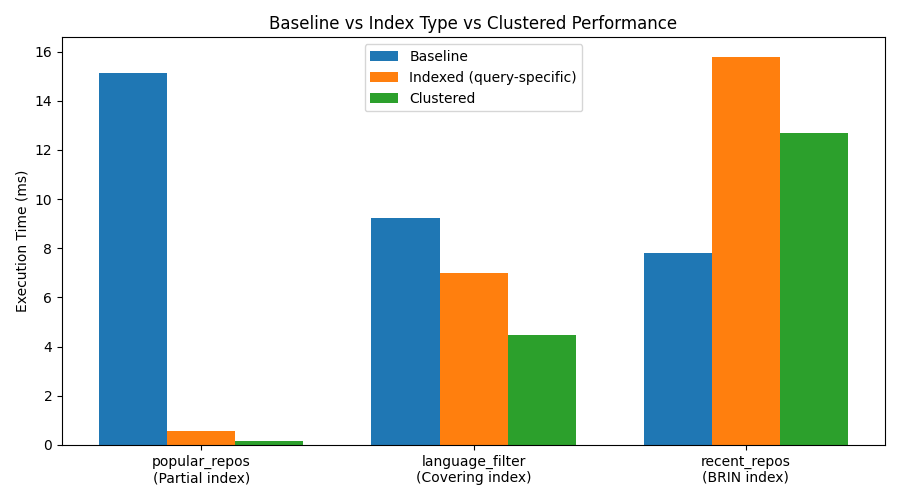
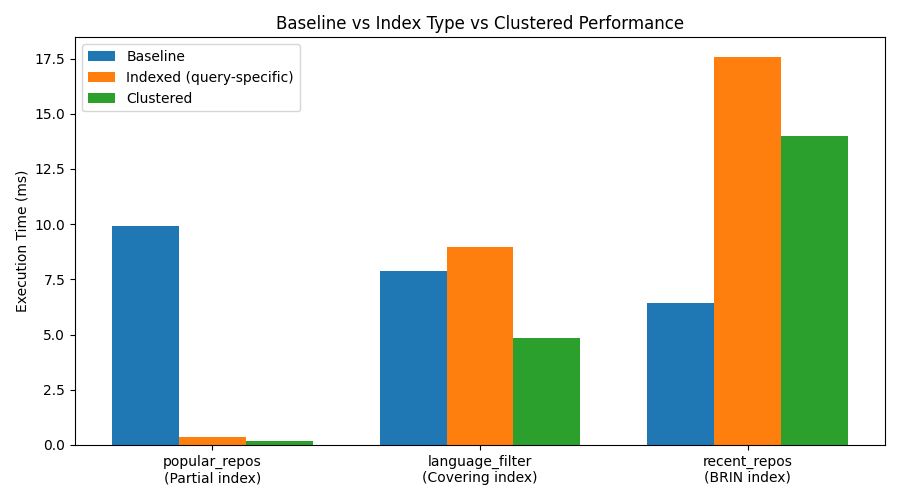
summary

diff --git a/analysis/plot_results.py b/analysis/plot_results.py
@@ -3,7 +3,7 @@ import matplotlib.pyplot as plt
 import numpy as np
 
 baseline = pd.read_csv("analysis/baseline.csv")
-indexed = pd.read_csv("analysis/indexed.csv")
+indexed = pd.read_csv("analysis/indexed_no_cluster.csv")
 clustered = pd.read_csv("analysis/indexed_clustered.csv")
 
 # Map query → index type

diff --git a/analysis/compare.py b/analysis/compare.py
@@ -1,7 +1,7 @@
 import pandas as pd
 
 base = pd.read_csv("analysis/baseline.csv")
-idx = pd.read_csv("analysis/indexed.csv")
+idx = pd.read_csv("analysis/indexed_no_cluster.csv")
 
 df = base.merge(idx, on="query", suffixes=("_baseline", "_indexed"))
 

diff --git a/analysis/run_benchmarks.py b/analysis/run_benchmarks.py
@@ -25,7 +25,7 @@ QUERIES = {
         EXPLAIN (ANALYZE, BUFFERS, FORMAT JSON)
         SELECT COUNT(*)
         FROM repos
-        WHERE created_at >= '2022-01-01';
+        WHERE created_at BETWEEN '2023-01-01' AND '2023-02-01';
     """
 }
 

diff --git a/analysis/run_baseline.py b/analysis/run_baseline.py
@@ -25,7 +25,7 @@ QUERIES = {
         EXPLAIN (ANALYZE, FORMAT JSON)
         SELECT COUNT(*)
         FROM repos
-        WHERE created_at >= '2022-01-01';
+        WHERE created_at BETWEEN '2023-01-01' AND '2023-02-01';
     """
 }
 

diff --git a/README.md b/README.md
@@ -1,0 +1,99 @@
+# Database Indexing and Clustering Study
+
+## Overview
+This project evaluates the impact of realistic PostgreSQL indexing and physical clustering strategies on query performance using a ~100,000-row dataset collected from the GitHub Repository Search API. The goal is to measure **when indexing helps, when it hurts, and why**, using controlled baseline vs indexed vs clustered experiments.
+
+---
+
+## Dataset
+- **Source:** GitHub Repository Search API
+- **Size:** ~100,000 repositories
+- **Schema:**  
+  `id, name, full_name, stargazers_count, forks_count, language, created_at, updated_at`
+- **Storage:** PostgreSQL
+
+---
+
+## Queries Evaluated
+1. **Popular repositories**  
+   Repositories with ≥ 5000 stars, ordered by stars
+2. **Language filter**  
+   All repositories where `language = 'Python'`
+3. **Recent repositories**  
+   Count of repositories created between `2023-01-01` and `2023-02-01`
+
+---
+
+## Indexing Strategies
+- **Partial B-tree index** on `stargazers_count` for popular repositories
+- **Covering B-tree index** on `language` with included columns
+- **BRIN index** on `created_at`
+- **Physical clustering** using `CLUSTER` on the covering index
+
+---
+
+## Methodology
+- **Baseline:** Primary key index only
+- **Indexed:** Secondary indexes added
+- **Clustered:** Table physically reordered using `CLUSTER`
+- **Measurement:** `EXPLAIN (ANALYZE, FORMAT JSON)`
+- **Metric:** Execution time (ms), execution plan node type
+
+---
+
+## Results Summary
+
+### Baseline vs Indexed
+
+| Query | Baseline (ms) | Indexed (ms) | Speedup | Plan Change |
+|-----|--------------|--------------|---------|------------|
+| Popular repos | 9.93 | 0.378 | **26.27×** | Seq Scan → Index Scan |
+| Language filter | 7.87 | 8.97 | **0.88× (slower)** | Seq Scan → Index Only Scan |
+| Recent repos (date range) | 6.43 | 17.58 | **0.37× (slower)** | Seq Scan → Aggregate |
+
+---
+
+### Indexed vs Clustered
+
+| Query | Indexed (ms) | Clustered (ms) | Speedup from Clustering |
+|-----|--------------|----------------|-------------------------|
+| Popular repos | 0.378 | 0.20 | **1.89×** |
+| Language filter | 8.97 | 4.85 | **1.85×** |
+| Recent repos (date range) | 17.58 | 13.99 | **1.26×** |
+
+---
+
+## Key Findings
+
+### 1. Partial indexes provide dramatic gains for targeted workloads
+The partial index on high-star repositories reduced execution time by over **26×**, demonstrating the effectiveness of indexing only the “hot” subset of data instead of the entire table.
+
+### 2. Covering indexes do not guarantee speedups
+Although the language query used an **index-only scan**, it was slightly slower than the baseline due to low selectivity and the overhead of scanning a large portion of the index. This highlights that **index-only ≠ faster by default**.
+
+### 3. BRIN indexes can hurt small-range queries
+For the one-month date range, the BRIN index increased execution time. This reflects BRIN’s design tradeoff: it excels at large sequential ranges, not narrow filters on moderately sized tables.
+
+### 4. Physical clustering consistently improved indexed performance
+Clustering improved performance across all indexed queries:
+- Nearly **2×** improvement for read-heavy workloads
+- Noticeable gains even for aggregation queries  
+However, clustering does not change query plans and must be maintained, making it a **physical optimization, not a logical one**.
+
+---
+
+## Limitations
+- GitHub Search API introduces sampling bias
+- Single-node PostgreSQL deployment
+- No concurrent workload or write-heavy benchmarking
+- BRIN effectiveness limited by table size and data locality
+
+---
+
+## Conclusion
+This study shows that indexing is not universally beneficial: performance gains depend heavily on **query selectivity, access patterns, and physical data layout**. Partial indexes and clustering offer substantial improvements for targeted workloads, while low-selectivity and small-range queries can regress despite more sophisticated index usage.
+
+---
+
+## Reproducibility
+All ingestion, indexing, benchmarking, and analysis steps are automated and can be reproduced using the scripts in this repository.
